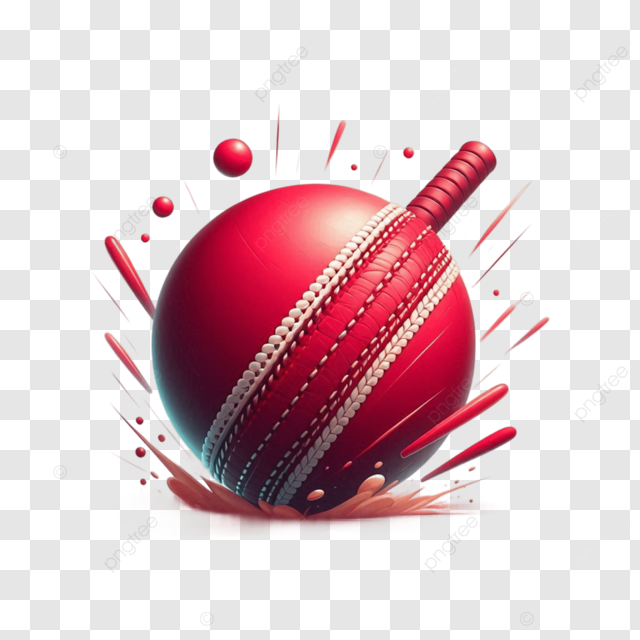
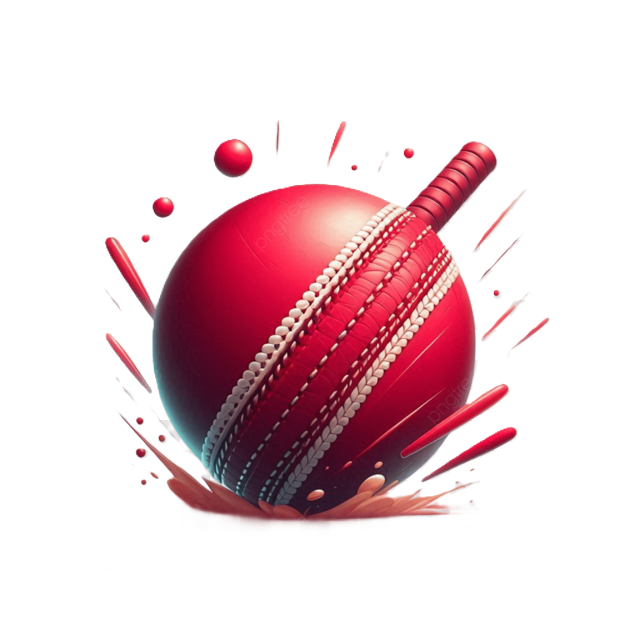
image replace and code fixed

diff --git a/mini_cricket/lib/main.dart b/mini_cricket/lib/main.dart
@@ -1,3 +1,4 @@
+import 'dart:math';
 import 'package:flutter/material.dart';
 
 void main() {
@@ -11,26 +12,26 @@ class MyApp extends StatelessWidget {
   @override
   Widget build(BuildContext context) {
     return MaterialApp(
-      title: 'Flutter Demo',
+      title: 'Mini Cricket',
+      debugShowCheckedModeBanner: false,
       theme: ThemeData(
         // This is the theme of your application.
         //
         // TRY THIS: Try running your application with "flutter run". You'll see
-        // the application has a purple toolbar. Then, without quitting the app,
-        // try changing the seedColor in the colorScheme below to Colors.green
-        // and then invoke "hot reload" (save your changes or press the "hot
-        // reload" button in a Flutter-supported IDE, or press "r" if you used
+        // the application theme. Then, without quitting the app, try changing
+        // the seedColor in the colorScheme below to Colors.green and then
+        // invoke "hot reload" (save your changes or press the "hot reload"
+        // button in a Flutter-supported IDE, or press "r" if you used
         // the command line to start the app).
         //
-        // Notice that the counter didn't reset back to zero; the application
-        // state is not lost during the reload. To reset the state, use hot
-        // restart instead.
+        // Notice that the game state doesn't reset during hot reload.
+        // To reset the state, use hot restart instead.
         //
         // This works for code too, not just values: Most code changes can be
         // tested with just a hot reload.
-        colorScheme: .fromSeed(seedColor: Colors.deepPurple),
+        colorScheme: ColorScheme.fromSeed(seedColor: Colors.blue),
       ),
-      home: const MyHomePage(title: 'Flutter Demo Home Page'),
+      home: const MyHomePage(title: 'Mini Cricket'),
     );
   }
 }
@@ -42,10 +43,10 @@ class MyHomePage extends StatefulWidget {
   // that it has a State object (defined below) that contains fields that affect
   // how it looks.
 
-  // This class is the configuration for the state. It holds the values (in this
-  // case the title) provided by the parent (in this case the App widget) and
-  // used by the build method of the State. Fields in a Widget subclass are
-  // always marked "final".
+  // This class is the configuration for the state. It holds the values
+  // provided by the parent (in this case the App widget) and used by the
+  // build method of the State. Fields in a Widget subclass are always
+  // marked "final".
 
   final String title;
 
@@ -54,68 +55,202 @@ class MyHomePage extends StatefulWidget {
 }
 
 class _MyHomePageState extends State<MyHomePage> {
-  int _counter = 0;
+  // Total runs scored by the player.
+  int totalRun = 0;
 
-  void _incrementCounter() {
+  // Player starts with 6 balls.
+  int balls = 6;
+
+  // This variable displays the runs scored from the current ball.
+  String randomNo = '';
+
+  // List of possible runs that can be scored from one ball.
+  final List<int> runs = [0, 1, 2, 3, 4, 6];
+
+  // Random object is used to generate a random run.
+  final Random random = Random();
+
+  void bat() {
+    // Check whether there are balls remaining.
+    if (balls > 0) {
+      // Select a random run from the runs list.
+      int run = runs[random.nextInt(runs.length)];
+
+      setState(() {
+        // This call to setState tells the Flutter framework that something has
+        // changed in this State, which causes it to rerun the build method below
+        // so that the display can reflect the updated values.
+
+        // Reduce the number of balls by one.
+        balls = balls - 1;
+
+        // Add the randomly generated run to the total score.
+        totalRun = totalRun + run;
+
+        // Display the run scored from the current ball.
+        randomNo = '$run Runs';
+      });
+    }
+  }
+
+  void restart() {
     setState(() {
-      // This call to setState tells the Flutter framework that something has
-      // changed in this State, which causes it to rerun the build method below
-      // so that the display can reflect the updated values. If we changed
-      // _counter without calling setState(), then the build method would not be
-      // called again, and so nothing would appear to happen.
-      _counter++;
+      // Reset all values to their initial values.
+      totalRun = 0;
+      balls = 6;
+      randomNo = '';
     });
   }
 
   @override
   Widget build(BuildContext context) {
     // This method is rerun every time setState is called, for instance as done
-    // by the _incrementCounter method above.
+    // by the bat and restart methods above.
     //
     // The Flutter framework has been optimized to make rerunning build methods
     // fast, so that you can just rebuild anything that needs updating rather
     // than having to individually change instances of widgets.
+
     return Scaffold(
       appBar: AppBar(
-        // TRY THIS: Try changing the color here to a specific color (to
-        // Colors.amber, perhaps?) and trigger a hot reload to see the AppBar
-        // change color while the other colors stay the same.
+        // TRY THIS: Try changing the color here to a specific color and
+        // trigger a hot reload to see the AppBar change color.
         backgroundColor: Theme.of(context).colorScheme.inversePrimary,
+
         // Here we take the value from the MyHomePage object that was created by
         // the App.build method, and use it to set our appbar title.
         title: Text(widget.title),
+        centerTitle: true,
       ),
-      body: Center(
-        // Center is a layout widget. It takes a single child and positions it
-        // in the middle of the parent.
-        child: Column(
-          // Column is also a layout widget. It takes a list of children and
-          // arranges them vertically. By default, it sizes itself to fit its
-          // children horizontally, and tries to be as tall as its parent.
-          //
-          // Column has various properties to control how it sizes itself and
-          // how it positions its children. Here we use mainAxisAlignment to
-          // center the children vertically; the main axis here is the vertical
-          // axis because Columns are vertical (the cross axis would be
-          // horizontal).
-          //
-          // TRY THIS: Invoke "debug painting" (choose the "Toggle Debug Paint"
-          // action in the IDE, or press "p" in the console), to see the
-          // wireframe for each widget.
-          mainAxisAlignment: .center,
-          children: [
-            const Text('You have pushed the button this many times:'),
-            Text(
-              '$_counter',
-              style: Theme.of(context).textTheme.headlineMedium,
-            ),
-          ],
+
+      body: Container(
+        width: double.infinity,
+        color: Colors.green,
+
+        child: Center(
+          // Center is a layout widget. It takes a single child and positions it
+          // in the middle of the parent.
+
+          child: Column(
+            // Column is also a layout widget. It takes a list of children and
+            // arranges them vertically. By default, it sizes itself to fit its
+            // children horizontally, and tries to be as tall as its parent.
+            //
+            // Column has various properties to control how it sizes itself and
+            // how it positions its children. Here we use mainAxisAlignment to
+            // center the children vertically; the main axis here is the
+            // vertical axis because Columns are vertical.
+
+            mainAxisAlignment: MainAxisAlignment.center,
+
+            children: [
+              // Row is used to display the bat and ball sections
+              // horizontally next to each other.
+              Row(
+                mainAxisAlignment: MainAxisAlignment.center,
+
+                children: [
+                  // ---------------- RUN SECTION ----------------
+                  Column(
+                    children: [
+                      Image.asset(
+                        'assets/images/bat.png',
+                        width: 180,
+                        height: 180,
+                        fit: BoxFit.contain,
+                      ),
+
+                      const SizedBox(height: 10),
+
+                      const Text(
+                        'Runs',
+                        style: TextStyle(
+                          color: Colors.white,
+                          fontSize: 20,
+                          fontWeight: FontWeight.bold,
+                        ),
+                      ),
+
+                      Text(
+                        '$totalRun',
+                        style: const TextStyle(
+                          color: Colors.white,
+                          fontSize: 30,
+                          fontWeight: FontWeight.bold,
+                        ),
+                      ),
+                    ],
+                  ),
+
+                  // SizedBox creates space between the two columns.
+                  const SizedBox(width: 50),
+
+                  // ---------------- BALL SECTION ----------------
+                  Column(
+                    children: [
+                      Image.asset(
+                        'assets/images/ball.png',
+                        width: 180,
+                        height: 180,
+                        fit: BoxFit.contain,
+                      ),
+
+                      const SizedBox(height: 10),
+
+                      const Text(
+                        'Balls',
+                        style: TextStyle(
+                          color: Colors.white,
+                          fontSize: 20,
+                          fontWeight: FontWeight.bold,
+                        ),
+                      ),
+
+                      Text(
+                        '$balls',
+                        style: const TextStyle(
+                          color: Colors.white,
+                          fontSize: 30,
+                          fontWeight: FontWeight.bold,
+                        ),
+                      ),
+                    ],
+                  ),
+                ],
+              ),
+
+              const SizedBox(height: 30),
+
+              // Display the runs scored from the current ball.
+              Text(
+                randomNo,
+                style: const TextStyle(
+                  color: Color.from(alpha: 1, red: 1, green: 1, blue: 1),
+                  fontSize: 30,
+                  fontWeight: FontWeight.bold,
+                ),
+              ),
+
+              const SizedBox(height: 50),
+
+              // If balls are greater than 0, display the Bat button.
+              // Otherwise, display the Restart button.
+              balls > 0
+                  ? ElevatedButton(
+                      onPressed: bat,
+                      child: const Text('Bat'),
+                    )
+                  : ElevatedButton(
+                      onPressed: restart,
+                      style: ElevatedButton.styleFrom(
+                        backgroundColor: Colors.red,
+                        foregroundColor: Colors.white,
+                      ),
+                      child: const Text('Restart'),
+                    ),
+            ],
+          ),
         ),
-      ),
-      floatingActionButton: FloatingActionButton(
-        onPressed: _incrementCounter,
-        tooltip: 'Increment',
-        child: const Icon(Icons.add),
       ),
     );
   }
